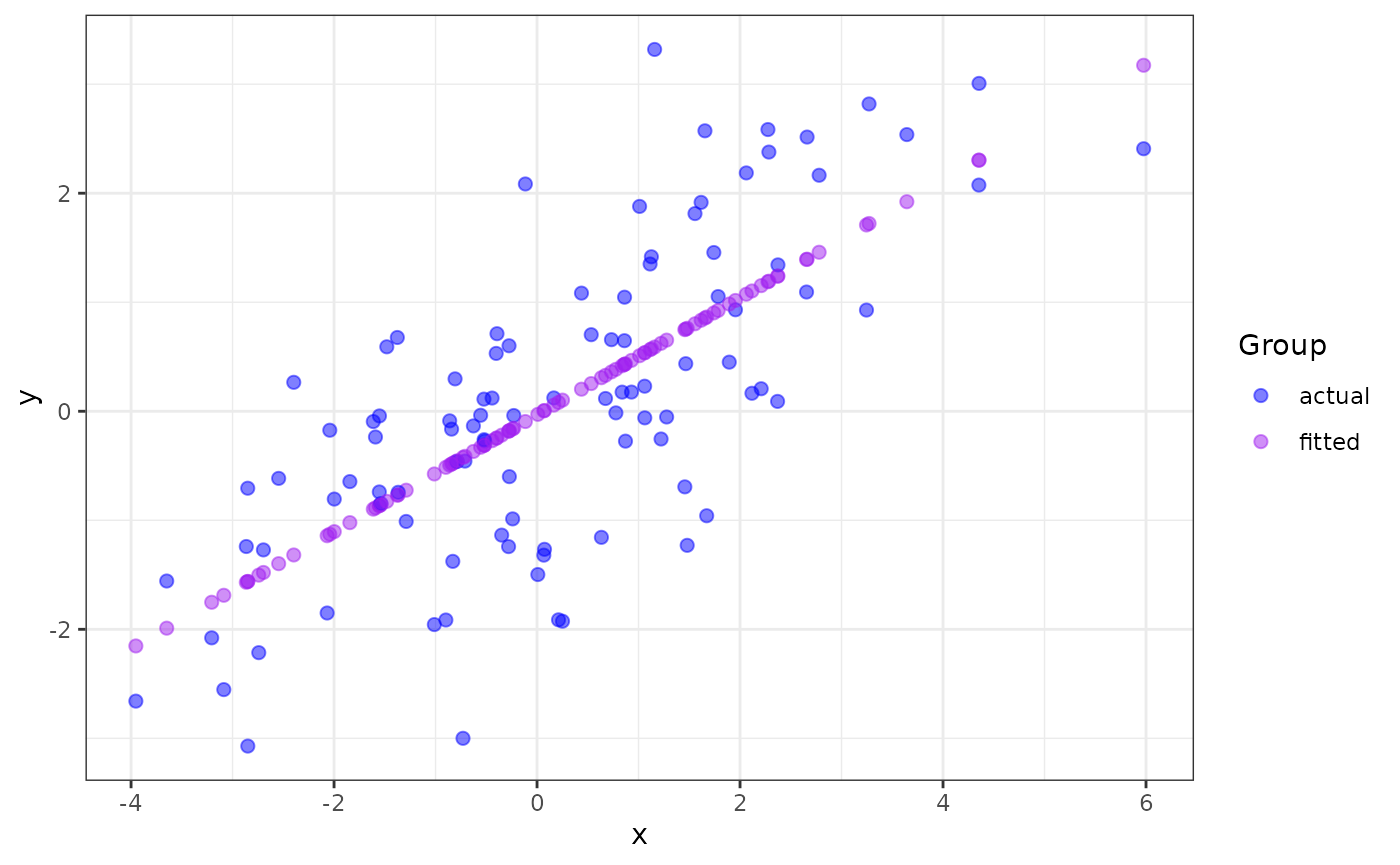
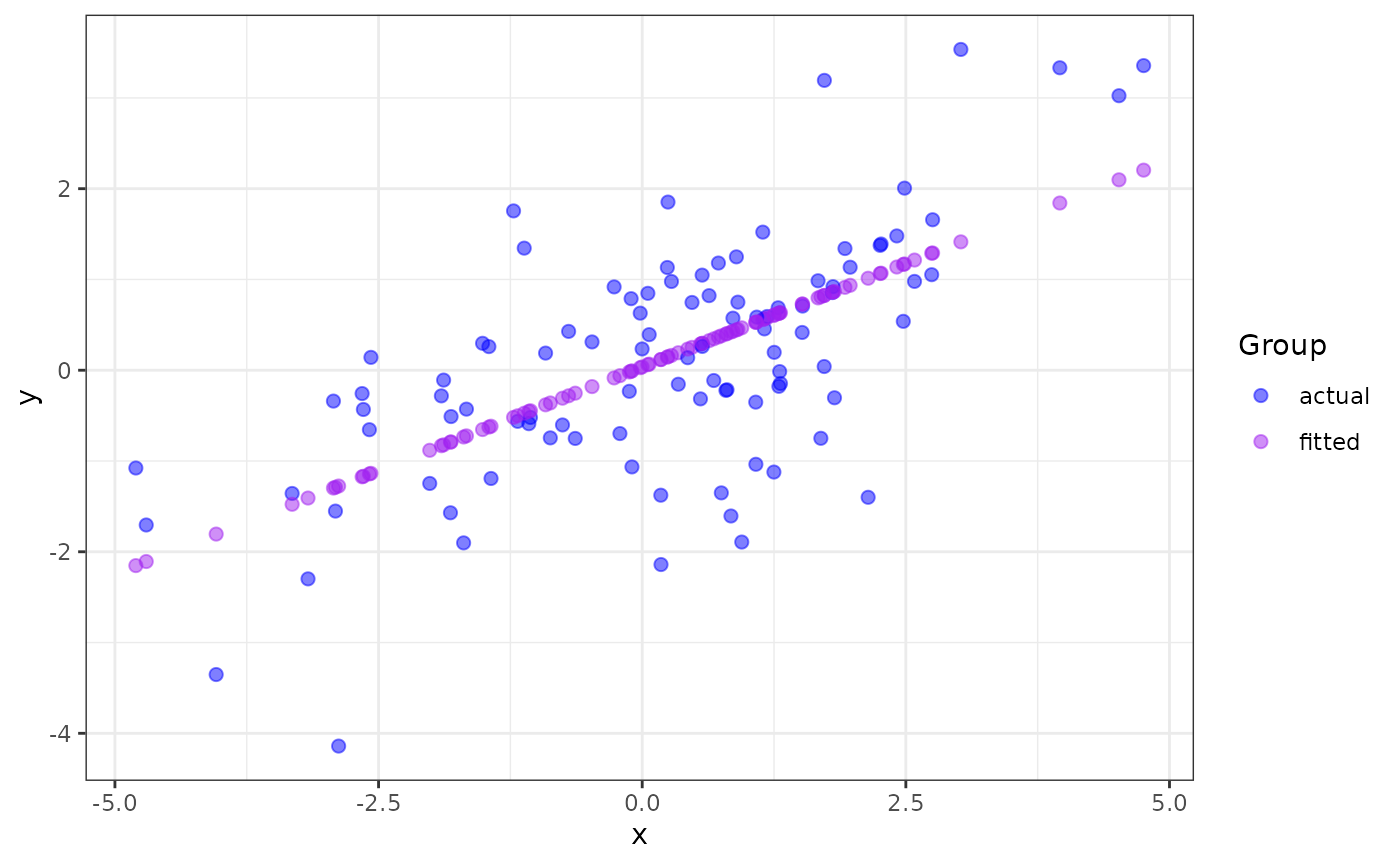
Built site for ggmatplot: 0.1.1@e1704ce

diff --git a/articles/ggmatplot.html b/articles/ggmatplot.html
@@ -103,7 +103,7 @@
 <span class="va">x</span> <span class="op">&lt;-</span> <span class="fu"><a href="https://rdrr.io/r/base/c.html" class="external-link">c</a></span><span class="op">(</span><span class="fu"><a href="https://rdrr.io/r/stats/Normal.html" class="external-link">rnorm</a></span><span class="op">(</span><span class="fl">100</span>, sd <span class="op">=</span> <span class="fl">2</span><span class="op">)</span><span class="op">)</span>
 
 <span class="fu"><a href="https://rdrr.io/r/utils/head.html" class="external-link">head</a></span><span class="op">(</span><span class="va">x</span><span class="op">)</span>
-<span class="co">#&gt; [1] -1.6134023  1.7844701  0.8382219  0.1652609 -1.5919872 -0.3946903</span>
+<span class="co">#&gt; [1]  3.9602437  0.7502731  1.6939813 -1.6935775  2.4875818 -2.9279476</span>
 
 <span class="co"># matrix z</span>
 <span class="va">y</span> <span class="op">&lt;-</span> <span class="va">x</span> <span class="op">*</span> <span class="fl">0.5</span> <span class="op">+</span> <span class="fu"><a href="https://rdrr.io/r/stats/Normal.html" class="external-link">rnorm</a></span><span class="op">(</span><span class="fl">100</span>, sd <span class="op">=</span> <span class="fl">1</span><span class="op">)</span>
@@ -112,13 +112,13 @@
            fitted <span class="op">=</span> <span class="va">fit.y</span><span class="op">)</span>
 
 <span class="fu"><a href="https://rdrr.io/r/utils/head.html" class="external-link">head</a></span><span class="op">(</span><span class="va">z</span><span class="op">)</span>
-<span class="co">#&gt;        actual      fitted</span>
-<span class="co">#&gt; 1 -0.09431868 -0.89778827</span>
-<span class="co">#&gt; 2  1.05232936  0.92486704</span>
-<span class="co">#&gt; 3  0.17546858  0.41728932</span>
-<span class="co">#&gt; 4  0.12226876  0.05630581</span>
-<span class="co">#&gt; 5 -0.23618340 -0.88630097</span>
-<span class="co">#&gt; 6  0.71147920 -0.24405803</span></code></pre></div>
+<span class="co">#&gt;       actual     fitted</span>
+<span class="co">#&gt; 1  3.3321607  1.8420994</span>
+<span class="co">#&gt; 2 -1.3512357  0.3786939</span>
+<span class="co">#&gt; 3 -0.7499217  0.8089246</span>
+<span class="co">#&gt; 4 -1.9020067 -0.7354423</span>
+<span class="co">#&gt; 5  2.0060659  1.1707221</span>
+<span class="co">#&gt; 6 -0.3399754 -1.2981839</span></code></pre></div>
 <p><code>ggmatplot</code> plots vector <code>x</code> against each column of matrix <code>z</code> using the default <code>plot_type = "point"</code>. This will be represented on the resulting plot as two groups, identified using different shapes and colors.</p>
 <div class="sourceCode" id="cb2"><pre class="downlit sourceCode r">
 <code class="sourceCode R"><span class="kw"><a href="https://rdrr.io/r/base/library.html" class="external-link">library</a></span><span class="op">(</span><span class="va"><a href="https://github.com/xuan-liang/ggmatplot" class="external-link">ggmatplot</a></span><span class="op">)</span>
